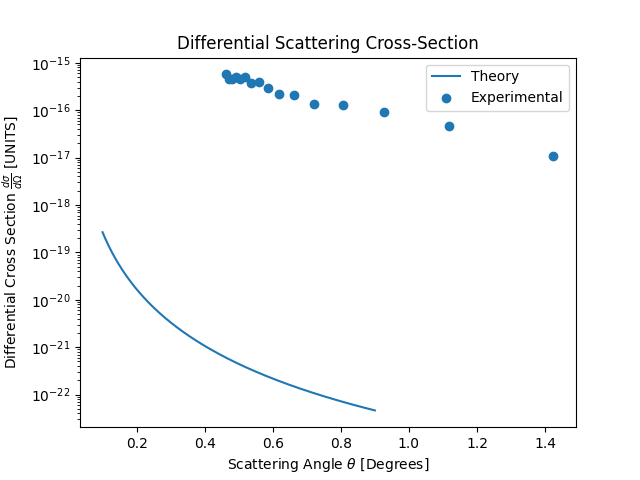
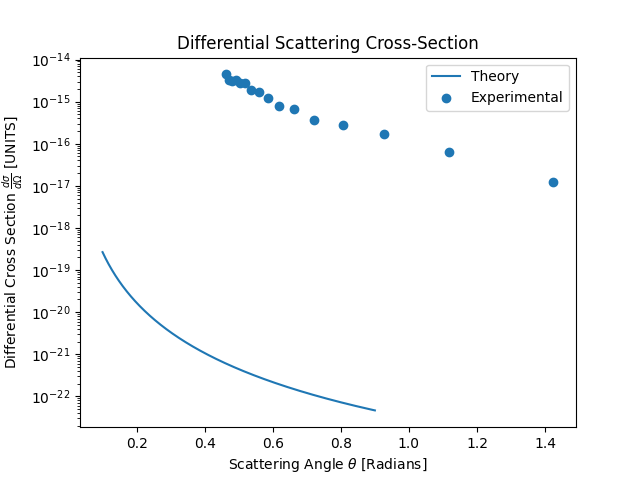
clenaed

diff --git a/AEL/Rutherford/counts.py b/AEL/Rutherford/counts.py
@@ -4,33 +4,34 @@ import pandas as pd
 
 
 #------------ Global Variables ------------#
-#Geometries:
-r_i = 2.30 #[cm]
-r_o = 2.70 #[cm]
-r_1 = (r_i + r_o)/2 #average foil radius [cm]
-r_d = 0.48 #detector radius [cm]
-A_1 = np.pi*(r_o**2 - r_i**2) #area of gold foil [cm^2]
-A_d = np.pi*(r_d**2) #area of detector [cm^2]
-X = 7.22 #[cm]
-R_1 = np.sqrt(X**2 + r_1**2) #distance from source to foil [cm]
-theta_1= np.arctan(r_1/X)
-#Nuclear/Material:
-Z = 79 #gold foil nuclear proton count
-t = 2E-4 #gold foil thickness [cm]
-z = 2 #scattered particle proton count
-e = 3.79E-7 #proton charge [sqrt(cm*MeV)]
-rho = 1.932E1 #gold foil density [g/cm^3]
-E_s = 4.4 - 0.3*(rho*t) #energy of scattered alpha particles (source energy - foil loss) [MeV]
-N_A = 6.02214076E23 #Avogadro's # [1/mol]
-A_g = 197.2 #atomic mass of gold [amu][g/mol]
-n = rho*N_A*A_1*t/A_g #total # of scattering centers
+# Geometries:
+r_i = 2.30 # inner foil radius [cm]
+r_o = 2.70 # outer foil radius [cm]
+r_1 = (r_i + r_o)/2 # average foil radius [cm]
+r_d = 0.48 # detector radius [cm]
+A_1 = np.pi*(r_o**2 - r_i**2) # area of gold foil [cm^2]
+A_d = np.pi*(r_d**2) # area of detector [cm^2]
+X = 7.22 # axial source-foil distance [cm]
+R_1 = np.sqrt(X**2 + r_1**2) # distance from source to foil [cm]
+theta_1= np.arctan(r_1/X) # source emission angle [radians]
+# Nuclear/Material: ------------------------------------------------------------------------------
+Z = 79 # gold foil nuclear proton count
+t = 2E-4 # gold foil thickness [cm]
+z = 2 # scattered particle proton count
+e = 3.79E-7 # proton charge [sqrt(cm*MeV)]
+rho = 1.932E1 # gold foil density [g/cm^3]
+E_s = 4.4 - 0.3*(rho*t) # energy of scattered alpha particles (source energy - foil loss) [MeV]
+N_A = 6.02214076E23 # Avogadro's # [1/mol]
+A_g = 197.2 # atomic mass of gold [amu][g/mol]
+n = rho*N_A*A_1*t/A_g # total # of scattering centers
 N_0 = 3# source emission rate [counts/min]             #FAKE NUMBER _ NEEDS TO CHANGE ___
-#Constant Calculations:
-R = (Z*z*e**2)**2/(16*E_s**2) #Rutherford constant
-G = R* (n*(np.pi* r_d**2) / ((X**2 + r_1**2)* r_1**2)) #[cm^-2 MeV^-2]
-
-
+# Constant Calculations: -------------------------------------------------------------------------
+Rutherford = (Z*z*e**2)**2/(16*E_s**2) #Rutherford constant
+G = Rutherford * (n*(np.pi* r_d**2) / ((X**2 + r_1**2)* r_1**2)) #[cm^-2 MeV^-2]
 print(f'G is {G}')
+
+
+
 
 #------------ Downloading Data -------------#
 #data= pd.read_excel('Rutherford_Data.xlsx')
@@ -42,52 +43,69 @@ Y= np.array([19.3,18.1,16.9,15.7,14.5,13.3,12.1,10.9,9.7,8.5,7.3,6.1,4.9,3.7,2.5
 
 
 
-
-#------------- Theoretical Calculations -------------#
-def theory():
-    Y_t= np.linspace(1,20,100)
-    theta_2= np.pi/2 - np.arctan(Y_t/r_1)
-    theta= theta_1 + theta_2
+#------------- Theoretical & Experimental Functions -------------#
+def angle_theory():
+    Y_t = np.linspace(1,20,100)
+    theta_2 = np.pi/2 - np.arctan(Y_t/r_1)
+    theta = theta_1 + theta_2
     fY_t = np.cos(theta_2) * (np.sin(theta_2))**2 / (np.sin(theta/2))**4
     return Y_t, fY_t
+
+def cross_theory():
+    theta = np.linspace(0.1, 0.9, 1000) #[radians]
+    Xsec_theory = Rutherford / (np.sin(theta/2))**4
+    return theta, Xsec_theory
+
+def cross_exp():
+    theta_2 = np.arctan(r_1/Y)
+    theta_exp = theta_1 + theta_2
+    Xsec_exp =  (N_2 * R_1**2 * r_1**2 / 
+                (n * N_0 * A_d * np.cos(theta_2)*(np.sin(theta_2))**2)
+    )
+    return theta_exp, Xsec_exp
+    
 
 
 
 #------------- Plotting -----------------#
 # Theoretical Y_t vs f(Y_t):
-plt.figure()
-plt.title('Scattering Angular Dependence')
-plt.xlabel('Foil-Detector Distance Y [cm]')
-plt.ylabel('Angular Dependence of Count Rate f(Y)')
-Y_t, fY_t= theory()
-plt.plot(Y_t, fY_t)
-plt.savefig('f(Y).png')
-#plt.show()
+def plotting():
+    # Calling functions and saving x and y axis variables:
+    Y, fY = angle_theory()
+    theta, Xsec_theory = cross_theory()
+    theta_exp, Xsec_exp = cross_exp()
+    
+    
+    plt.figure()
+    plt.title('Scattering Angular Dependence')
+    plt.xlabel('Foil-Detector Distance Y [cm]')
+    plt.ylabel('Angular Dependence of Count Rate f(Y)')
+    plt.plot(Y, fY) #
+    plt.savefig('f(Y).png')
+    #plt.show()
 
-# N2 as a Func of Y:
-plt.figure()
-plt.title('Rutherford Nucleus Scattering')
-plt.xlabel('Scattering Foil-Detector Distance Y [cm]')
-plt.ylabel(r'Count Rate $N_2$ [counts/min]')
-plt.scatter(Y, N_2, color='purple', label='Data')
-plt.plot(Y_t, N_0*fY_t, label='Theory') #theoretical plot scaled to be Y vs N_2
-plt.legend()
-plt.savefig('N2.png')
-#plt.show()
+    # N2 as a Func of Y:
+    plt.figure()
+    plt.title('Rutherford Nucleus Scattering')
+    plt.xlabel('Scattering Foil-Detector Distance Y [cm]')
+    plt.ylabel(r'Count Rate $N_2$ [counts/min]')
+    plt.plot(Y, N_0*G*fY, label='Theory') # Y, N_2
+    plt.scatter(Y, N_2, color='purple', label='Data')
+    plt.legend()
+    plt.savefig('N2.png')
+    #plt.show()
 
-# Theoretical & experimental differential scattering cross-section:
-plt.figure()
-plt.title('Differential Scattering Cross-Section') 
-plt.xlabel(r'Scattering Angle $\theta$ [Radians]')
-plt.ylabel(r'Differential Cross Section $\frac{d\sigma}{d\Omega}$ [UNITS]')
-plt.yscale('log')
-theta = np.linspace(0.1, 0.9, 1000) #[radians]
-plt.plot(theta, R / (np.sin(theta/2))**4, label='Theory') #
-theta_2exp = np.arctan(r_1/Y)
-plt.scatter(
-    theta_1 + theta_2exp, 
-    N_2 * R_1**2 * r_1**2 / (n * N_0 * A_d * np.cos(theta_2exp)*np.sin(theta_2exp)),
-    label='Experimental')
-plt.legend()
-plt.savefig('Rutherford.png')
-plt.show()
+    # Theoretical & experimental differential scattering cross-section:
+    plt.figure()
+    plt.title('Differential Scattering Cross-Section') 
+    plt.xlabel(r'Scattering Angle $\theta$ [Radians]')
+    plt.ylabel(r'Differential Cross Section $\frac{d\sigma}{d\Omega}$ [UNITS]')
+    plt.yscale('log')
+    plt.plot(theta, Xsec_theory, label='Theory') #
+    plt.scatter(theta_exp, Xsec_exp, color='purple', label='Experimental')
+    plt.legend()
+    plt.savefig('Rutherford.png')
+    plt.show()
+
+
+plotting()
